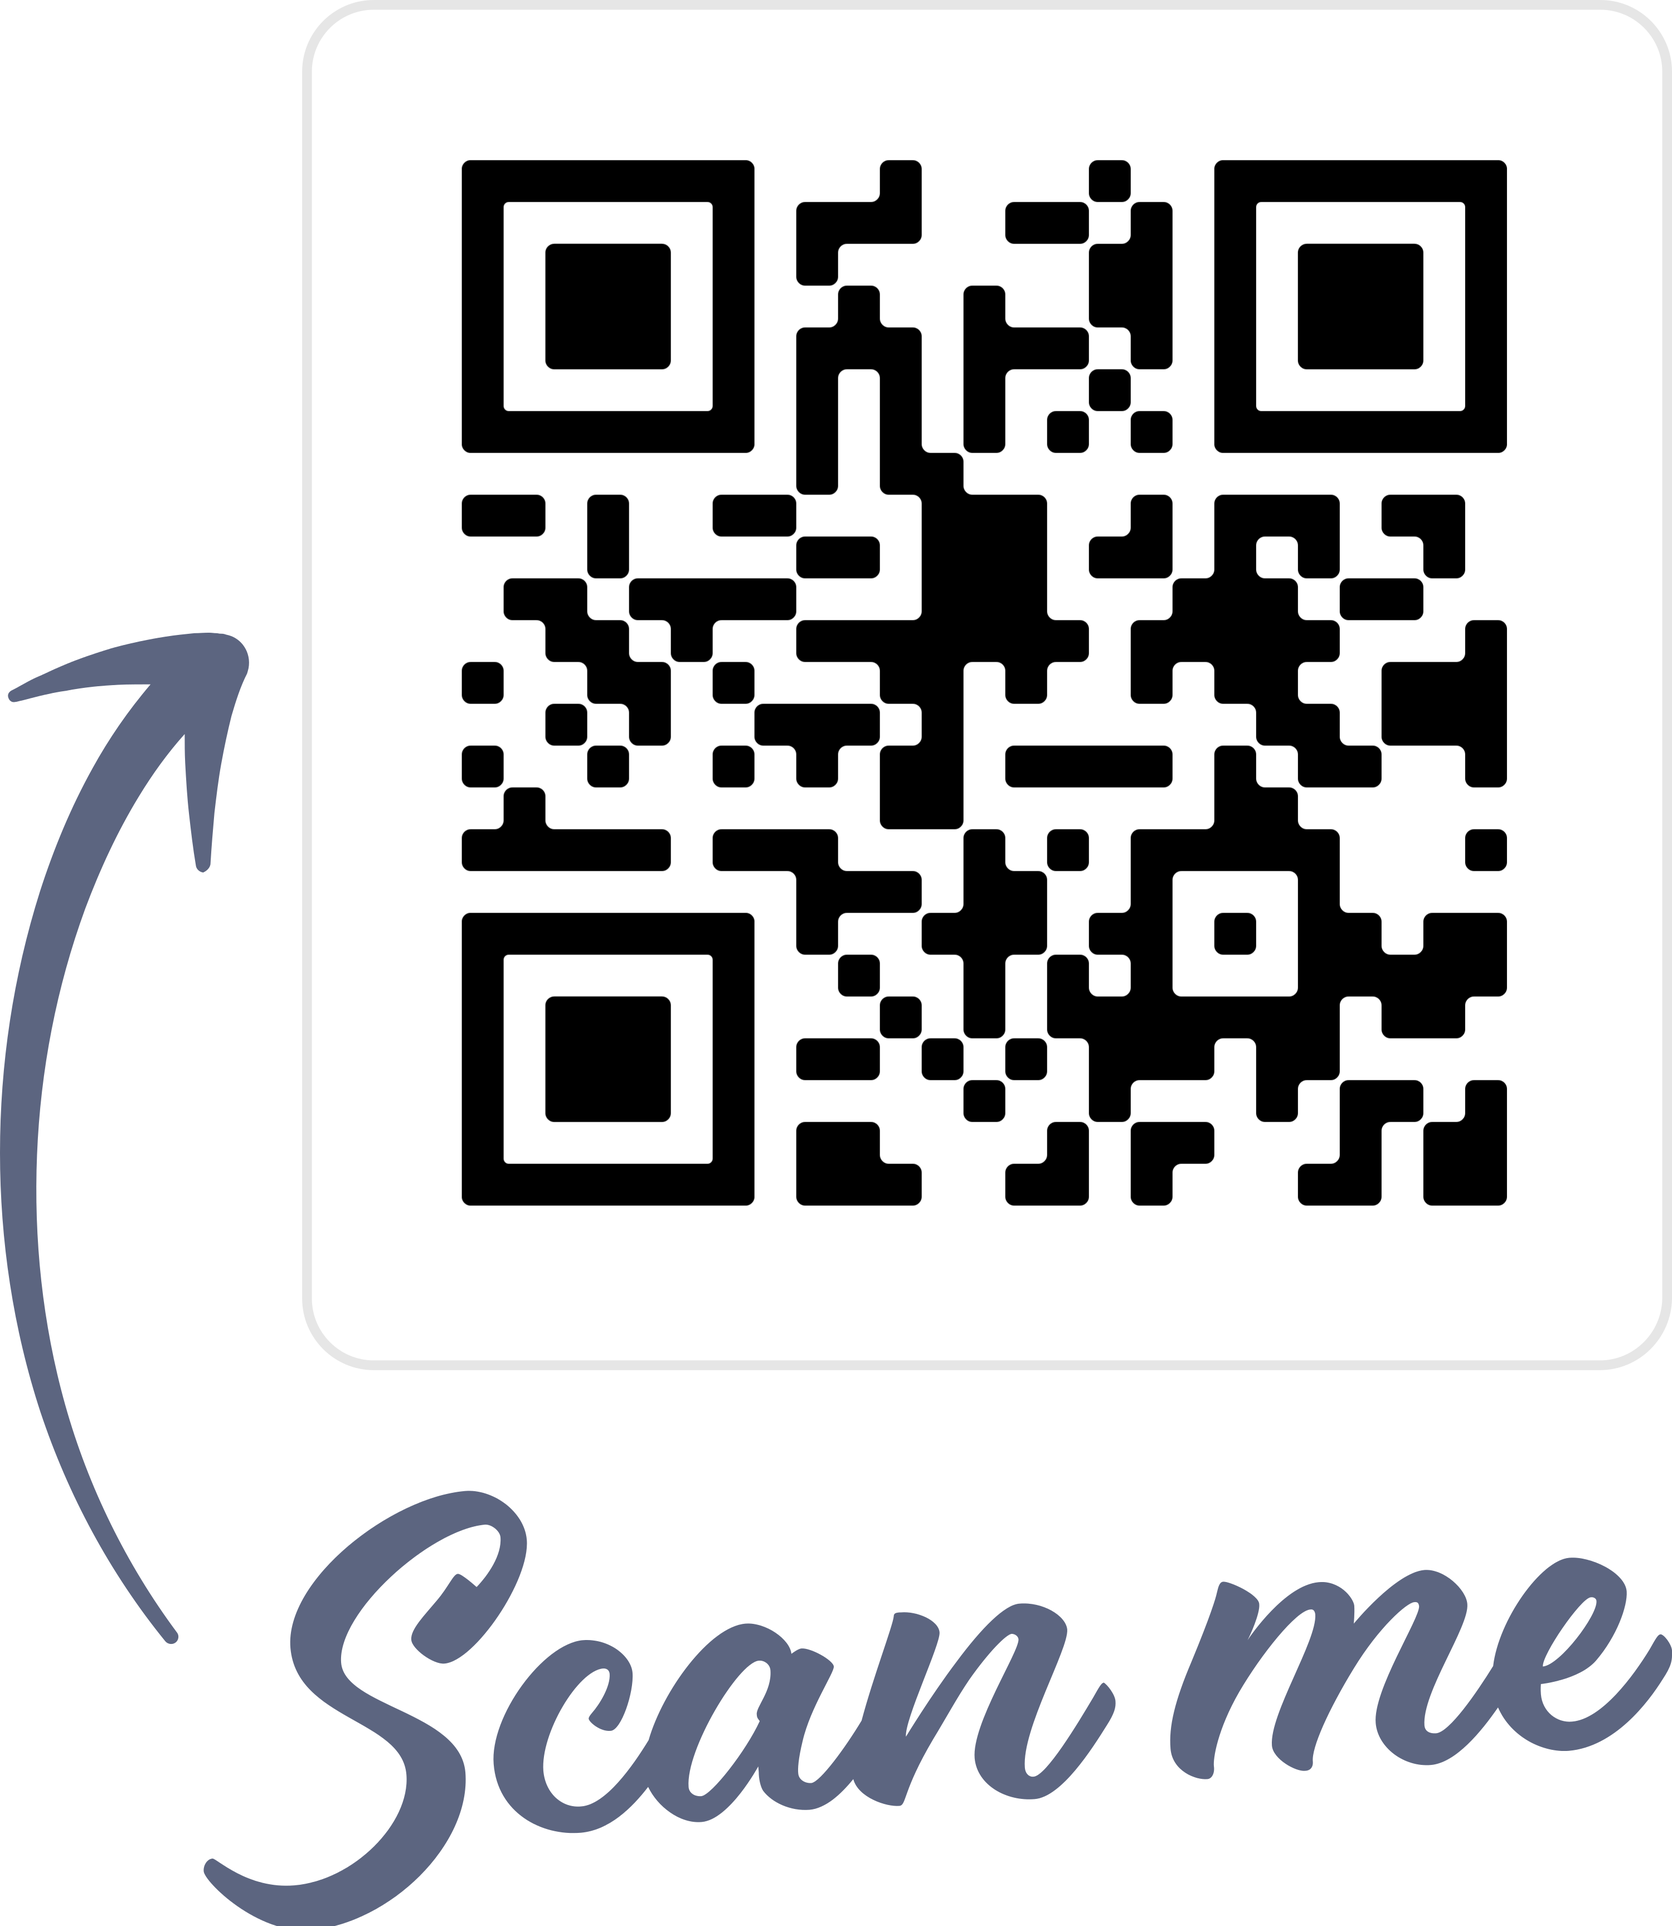
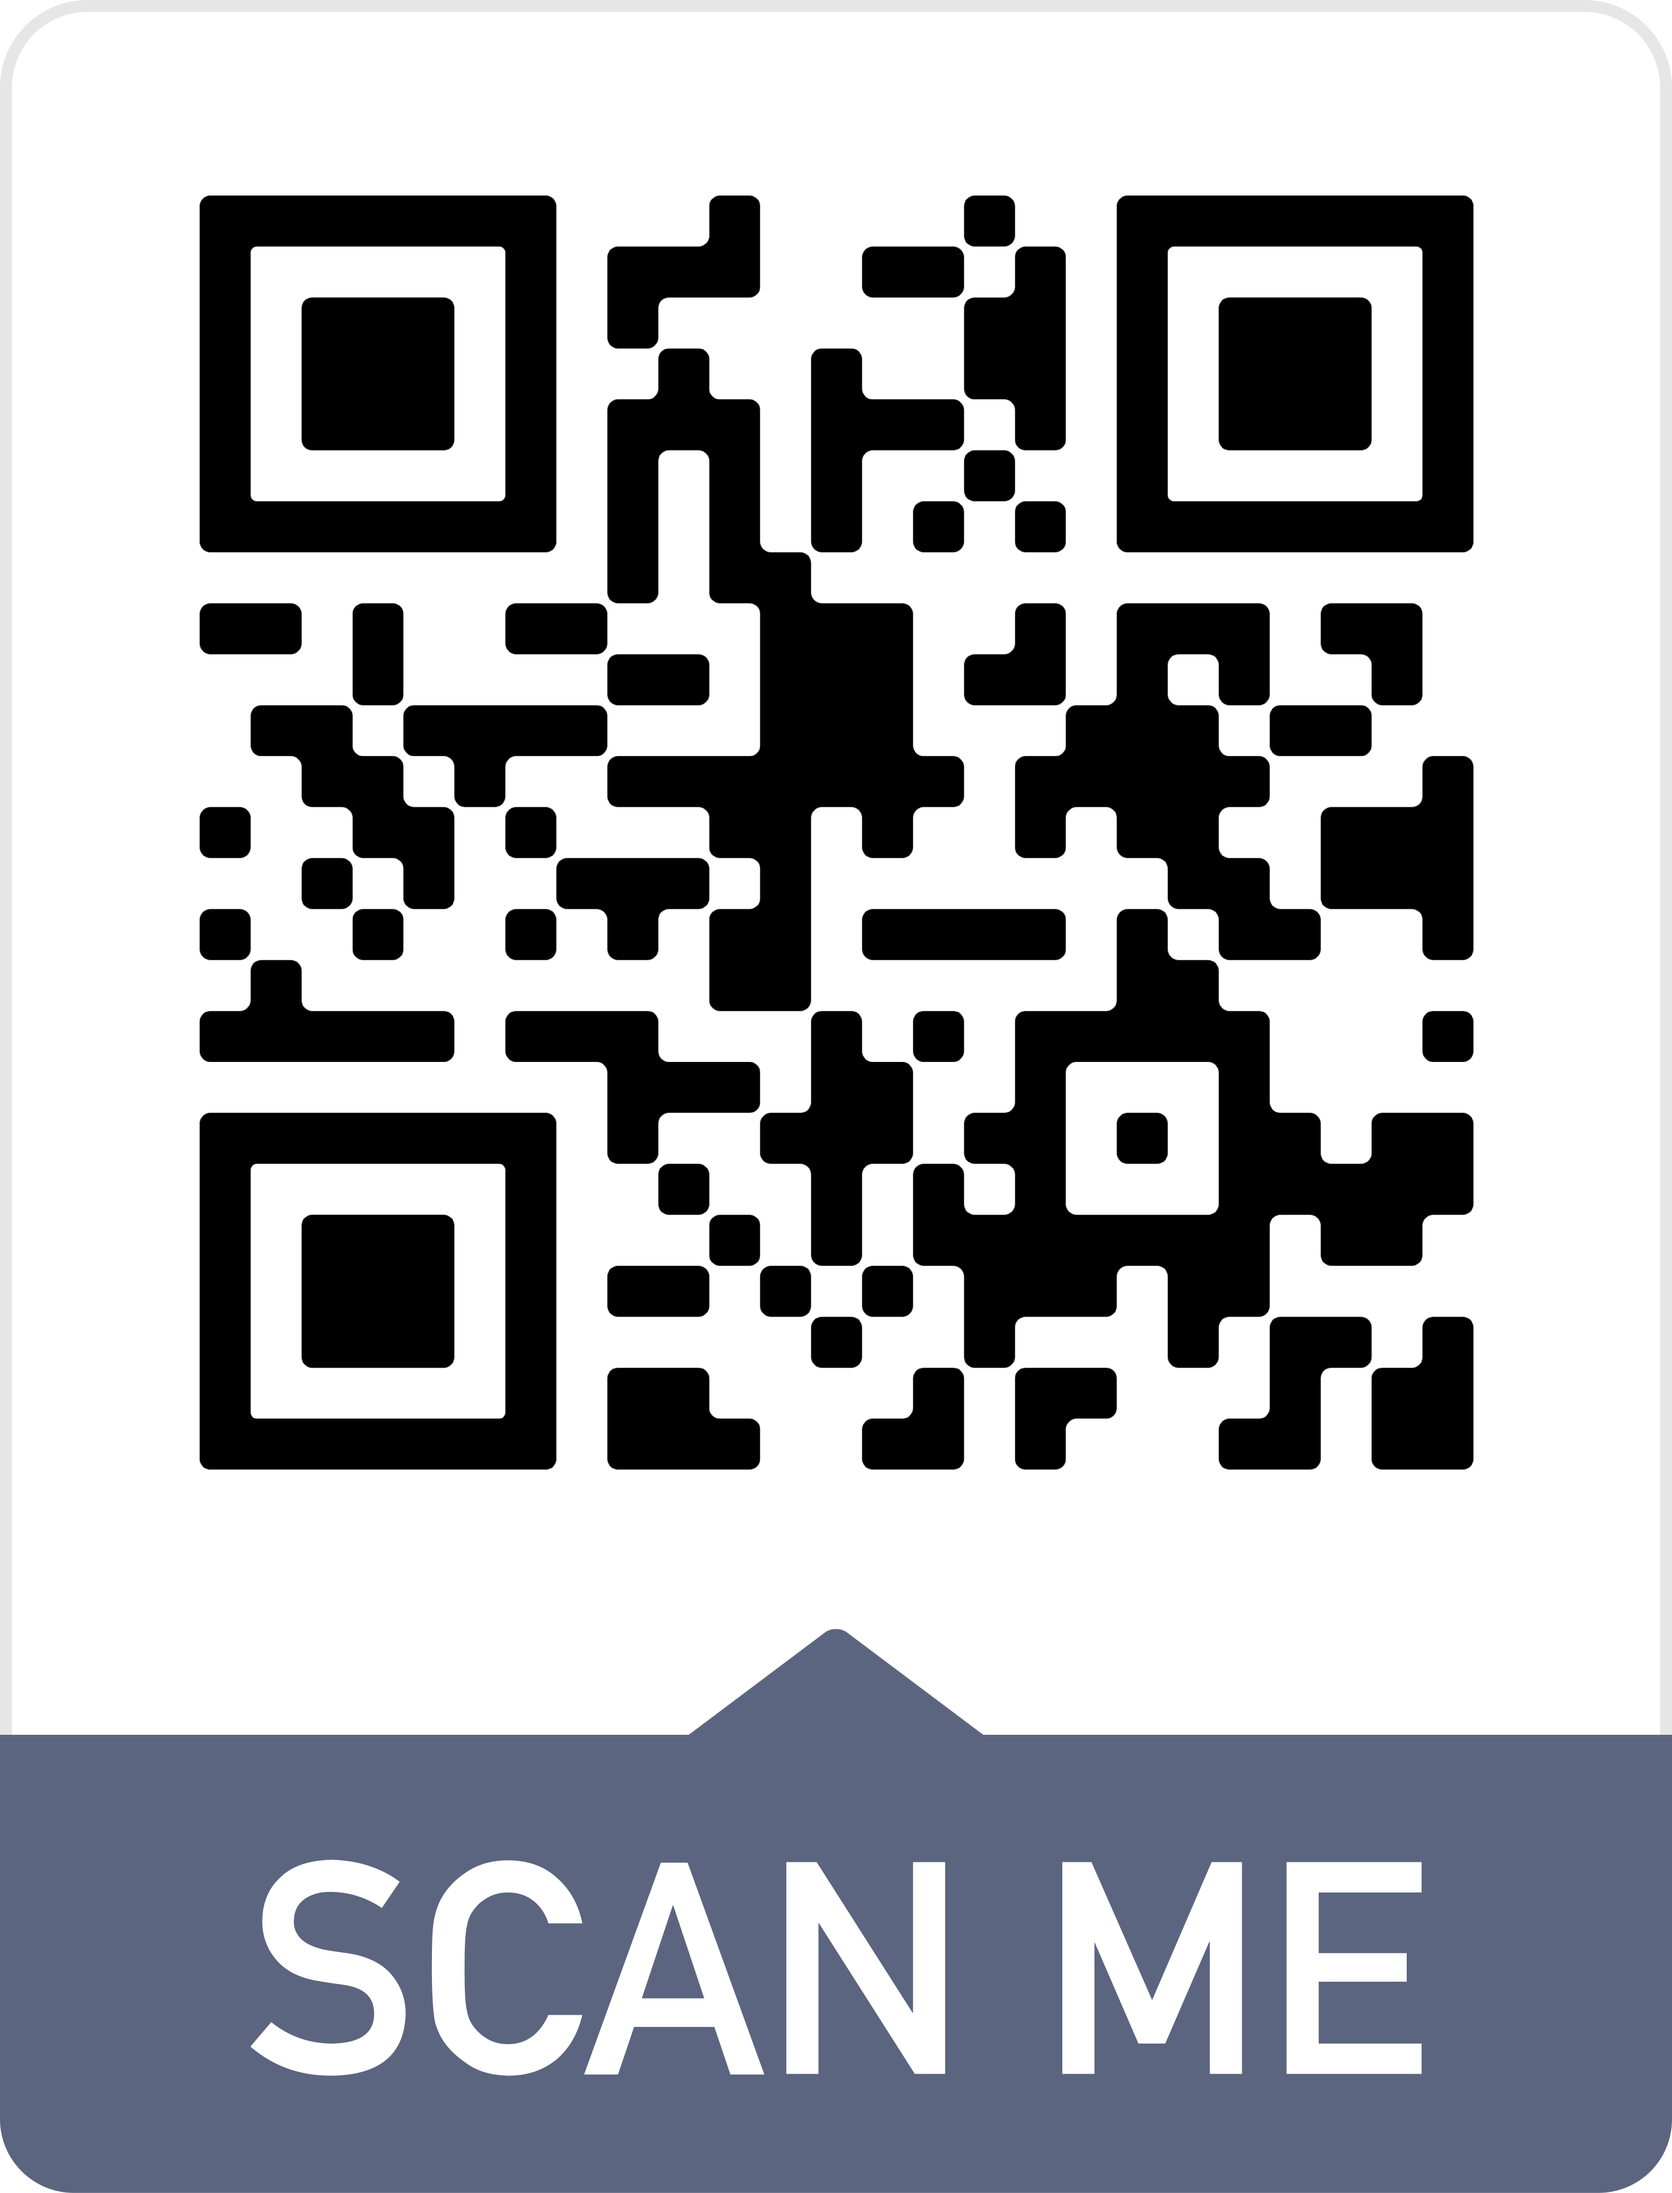
created QR page that holds QR code

diff --git a/attendance-checker/src/views/QR.vue b/attendance-checker/src/views/QR.vue
@@ -1,0 +1,44 @@
+<template>
+    <div class="container">
+        <dashboard-banner></dashboard-banner>
+        <div class="row mt-2">
+            <div class="col-12">
+                <router-link to="/dashboard" class="btn btn-primary">Dashboard</router-link>
+            </div>
+        </div>
+        <div class="row mt-4">
+            <div class="col-12">
+                <img class="qr__img" src="./../assets/frame.png" alt="">
+            </div>
+        </div>
+        <div class="row mt-3 mb-4">
+            <div class="col-12">
+                <p>{{qr_timestamp}}</p>
+                <h3>{{welcome_msg}}</h3>
+            </div>
+        </div>
+    </div>
+</template>
+<script>
+import DashboardBanner from './../components/Dashboard/DashboardBanner'
+export default {
+    name: 'QR',
+    components: {
+        DashboardBanner
+    },
+    data(){
+        return{
+            qr_timestamp: 'Generated at 10:03 on 9/23/2019',
+            welcome_msg: "Welcome, John Doe You have 25 Attendances in Comp 490 #1165"
+        }
+    }
+}
+</script>
+<style lang="scss">
+    .qr{
+        &__img{
+            height: 400px;
+            width: 400px;
+        }
+    }
+</style>

diff --git a/attendance-checker/src/router.js b/attendance-checker/src/router.js
@@ -2,6 +2,7 @@ import Vue from 'vue'
 import Router from 'vue-router'
 import Dashboard from './views/Dashboard.vue'
 import Login from './views/Login.vue'
+import QR from './views/QR.vue'
 
 Vue.use(Router)
 
@@ -9,6 +10,11 @@ export default new Router({
   mode: 'history',
   base: process.env.BASE_URL,
   routes: [
+    {
+      path: '/qr',
+      name: 'qr',
+      component: QR
+    },
     {
       path: '/dashboard',
       name: 'dashboard',

diff --git a/attendance-checker/src/views/Dashboard.vue b/attendance-checker/src/views/Dashboard.vue
@@ -2,6 +2,7 @@
   <div class="dashboard container">
     <dashboard-banner></dashboard-banner>
     Welcome: {{ getUser}}
+    <router-link to="/qr" class="btn btn-primary">QR</router-link>
     <dashboard-classes :classes="classes"></dashboard-classes>
   </div>
 </template>
